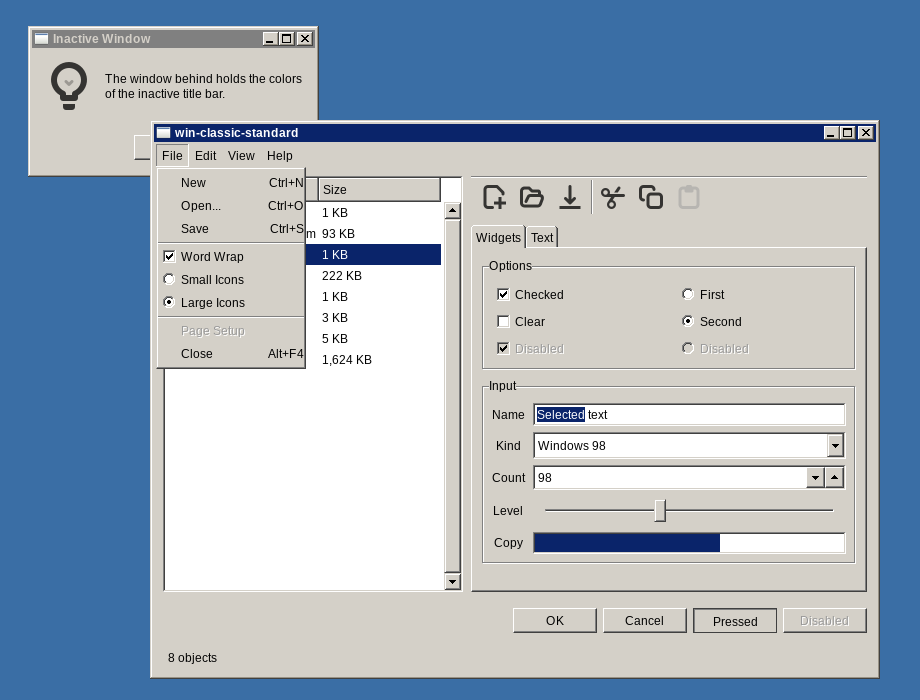
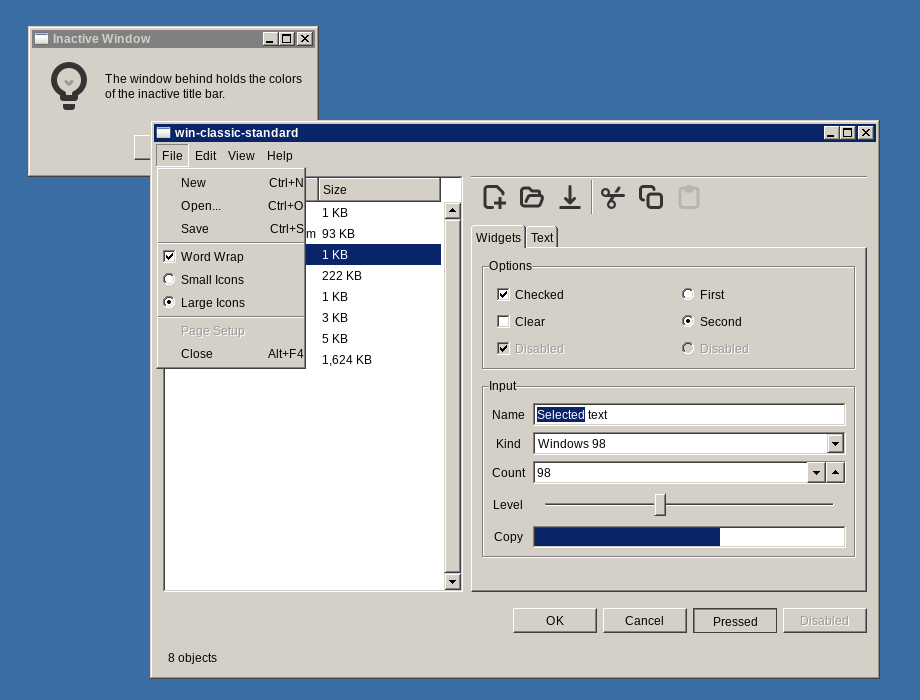
Put the entry, the drop down and the numeric input at one height
The 13 layers of the drop down button lose four rows of plain face, two above
the caret and two below it. The image is 19px, thus a button of 15px and its
two borders have the height of the image and the caret keeps its pixels.

The spin button gives its padding to the entry that it holds, which takes the
2px that made it taller than the other inputs.

The button of GTK4 is one pixel taller than the button of GTK3, thus its
bottom slice loses one row.

The three inputs now measure 22px, and each caret holds 16 pure black pixels.

Changed region(s): [[0.5174, 0.63, 0.9435, 0.81]]

diff --git a/gtk-3.0/gtk-buttons.css b/gtk-3.0/gtk-buttons.css
@@ -104,9 +104,9 @@ combobox button {
   border-width: 2px 18px 2px 2px;
   border-image: url("assets/combobox.png");
   border-image-slice: 2 18 2 2;
-  /* 19px and the two borders give the height of the image, thus the caret in
+  /* 15px and the two borders give the height of the image, thus the caret in
      the middle slice keeps its pixels. */
-  min-height: 19px;
+  min-height: 15px;
 }
 
 combobox button:checked,
@@ -289,7 +289,9 @@ button.sidebar-button:not(:hover):not(:active) > image {
 /* Spin buttons */
 
 spinbutton {
-  padding: 1px;
+  /* The entry inside holds the padding, thus the spin button has the height
+     of an entry. */
+  padding: 0;
   border-color: @borders;
   border: 1px solid @dark_shadow;
   border-bottom: 1px solid @light_shadow;

diff --git a/gtk-4.0/gtk-combobox.css b/gtk-4.0/gtk-combobox.css
@@ -4,3 +4,9 @@ combobox button:checked box {
   margin: 0px;
   margin-left: -1px;
 }
+
+/* The button of GTK4 is one pixel taller than the button of GTK3. One row
+   less in the bottom slice gives the middle slice the height of the button. */
+combobox button {
+  border-image-slice: 2 18 1 2;
+}
